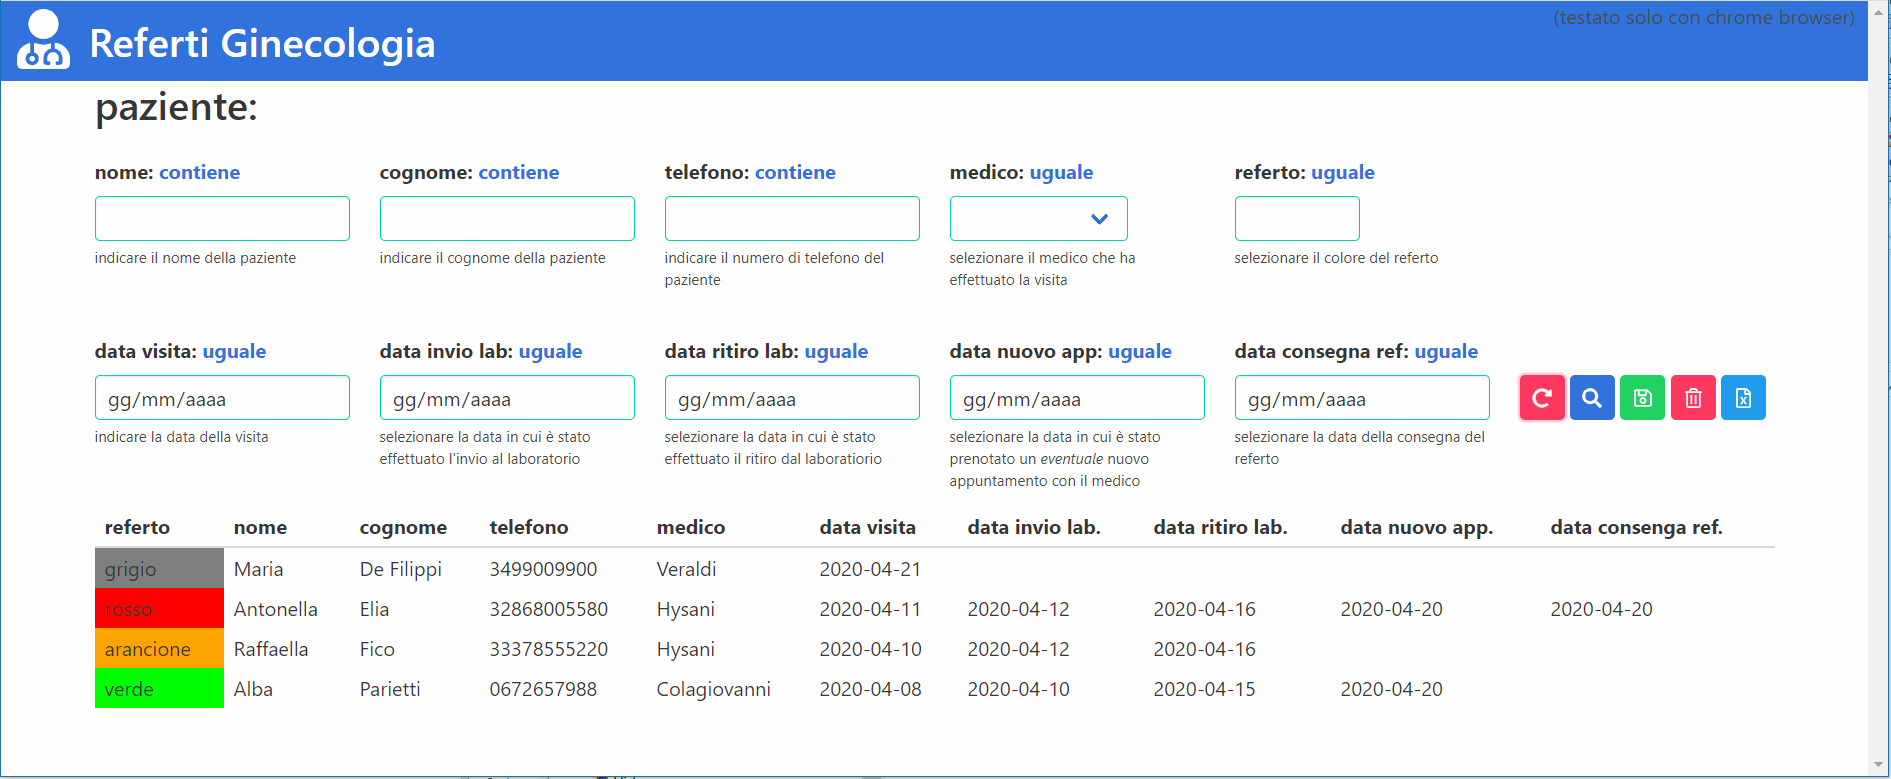
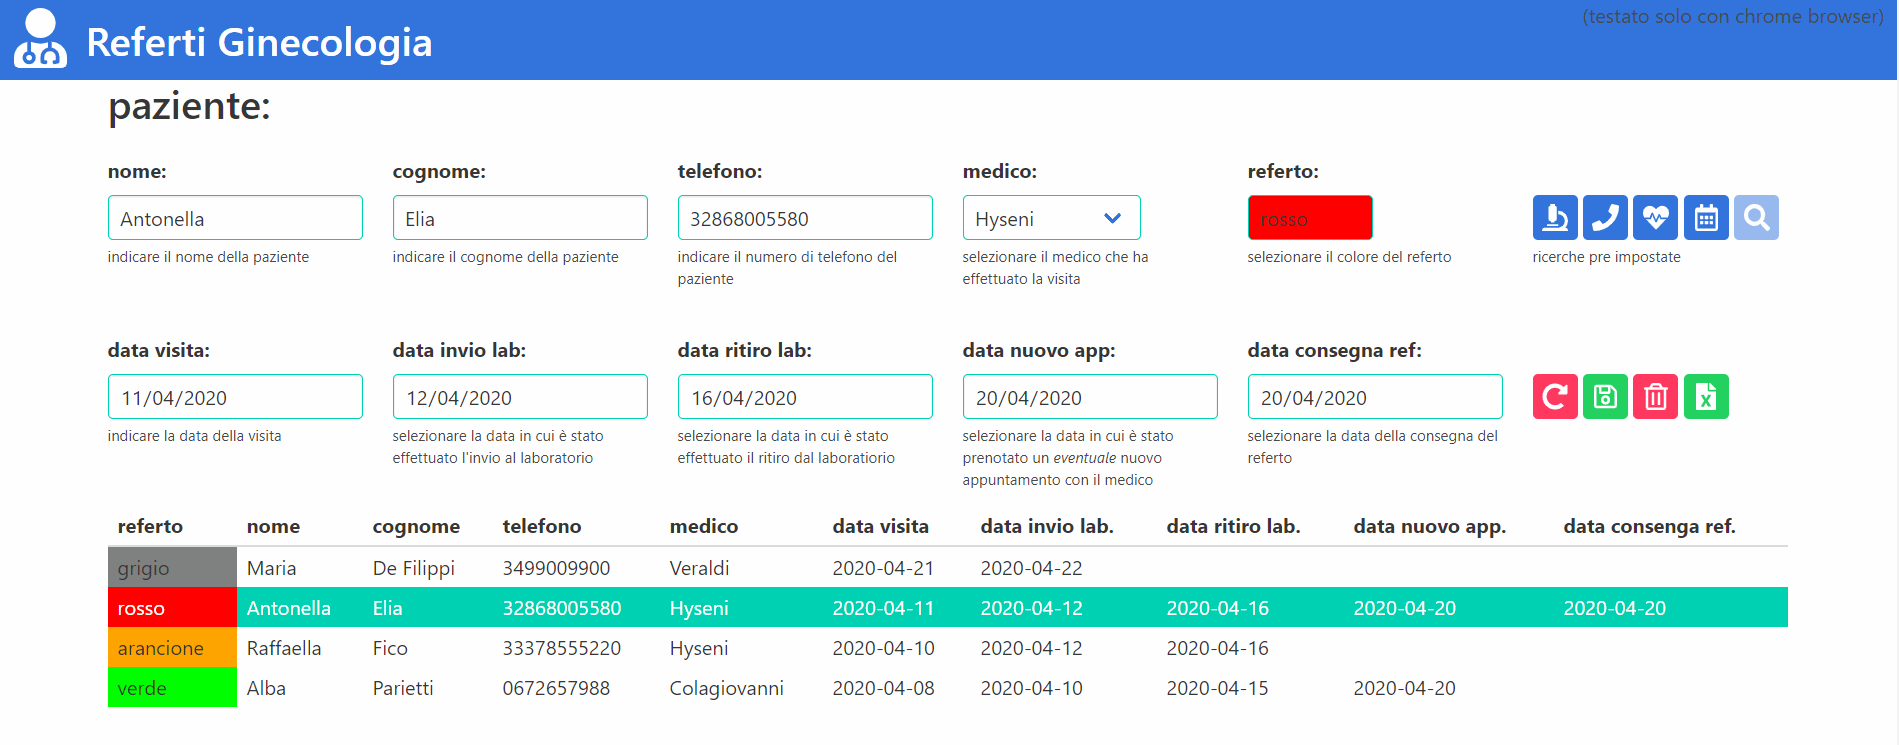
Add files via upload
add defined query

diff --git a/app.html b/app.html
@@ -21,6 +21,8 @@
 	
 	<script>
 	var dataCorrente = new Date();
+	var primoDelMese = new Date();
+	primoDelMese.setDate(1);
 	function adesso() {
 		return dataCorrente.toISOString().substr(0,19);
 	}
@@ -29,13 +31,16 @@
 	Number.prototype.toEuro = function(n, x) {
 		return this.toFixed(2).replace(/\./, ',').replace(regexEuro, '$&.');
 	};
+	Date.prototype.format = function() {
+		return this.toISOString().split('T')[0];
+	};
 	var refertoType = {grigio: 'grigio', verde: 'verde', arancione: 'arancione', rosso: 'rosso'}
 	
 	var pazienteType = {
 		id: null,
 		nome: null, cognome: null, telefono: null, medico: null,
 		tipoReferto: null,
-		dataVisita: null,  //dataCorrente.toISOString().split('T')[0],
+		dataVisita: null,  //dataCorrente.format(),
 		dataInvioLaboratorio: null,
 		dataRitiroLaboratorio: null,
 		dataNuovoAppuntamento: null,
@@ -49,9 +54,9 @@
 		//for (i=0; i<10; i=i+2) {
 			let p1 = {id:1,nome:'Alba',cognome:'Parietti',telefono:'0672657988',medico:'Colagiovanni',tipoReferto:'verde',
 					  dataVisita: '2020-04-08',	dataInvioLaboratorio: '2020-04-10', dataRitiroLaboratorio: '2020-04-15', dataNuovoAppuntamento: '2020-04-20', dataConsegna: null}
-			let p2 = {id:2,nome:'Raffaella',cognome:'Fico',telefono:'33378555220',medico:'Hysani',tipoReferto:'arancione',
+			let p2 = {id:2,nome:'Raffaella',cognome:'Fico',telefono:'33378555220',medico:'Hyseni',tipoReferto:'arancione',
 					  dataVisita: '2020-04-10',	dataInvioLaboratorio: '2020-04-12', dataRitiroLaboratorio: '2020-04-16', dataNuovoAppuntamento: null, dataConsegna: null}
-			let p3 = {id:3,nome:'Antonella',cognome:'Elia',telefono:'32868005580',medico:'Hysani',tipoReferto:'rosso',
+			let p3 = {id:3,nome:'Antonella',cognome:'Elia',telefono:'32868005580',medico:'Hyseni',tipoReferto:'rosso',
 					  dataVisita: '2020-04-11',	dataInvioLaboratorio: '2020-04-12', dataRitiroLaboratorio: '2020-04-16', dataNuovoAppuntamento: '2020-04-20', dataConsegna: '2020-04-20'}
 			let p4 = {id:4,nome:'Maria',cognome:'De Filippi',telefono:'3499009900',medico:'Veraldi',tipoReferto:'grigio',
 					  dataVisita: '2020-04-21',	dataInvioLaboratorio: null, dataRitiroLaboratorio: null, dataNuovoAppuntamento: null, dataConsegna: null}
@@ -139,8 +144,10 @@
 						<select class="input is-primary" v-model="paziente.medico" v-on:change="filtra">
 							<option>Veraldi</option>
 							<option>Colagiovanni</option>
-							<option>Hysani</option>
+							<option>Hyseni</option>
 							<option>Bellantone</option>
+							<option>Assorgi</option>
+							<option>Guri</option>
 						</select>
 					</p>
 					<p class="help">selezionare il medico che ha effettuato la visita</p>
@@ -150,7 +157,7 @@
 					<p class="control">
 						<select class="input is-primary" v-model="paziente.tipoReferto" style="width:100px" v-bind:class="paziente.tipoReferto" v-on:change="filtra">
 							<option></option>
-							<option class="grigio" value="grigio" selected></option>
+							<option class="grigio" value="grigio"></option>
 							<option class="verde" value="verde">verde</option>
 							<option class="arancione" value="arancione">arancione</option>
 							<option class="rosso" value="rosso">rosso</option>
@@ -159,6 +166,37 @@
 					<p class="help">selezionare il colore del referto</p>
 				</div>
 				<div class="column">
+					<p class="control" style="padding-top:32px">
+					<button class="button is-link" v-on:click="filtraReferti" title="tutti i referti ancora non ritornati dal laboratorio">
+						<span class="icon is-small">
+							<i class="fas fa-lg fa-microscope"></i>
+						</span>
+					</button>
+					<button class="button is-link" v-on:click="filtraAppuntamenti" title="tutti i pazienti da chiamare (rossi e arancioni)
+per concordare l'appuntamento con il medico">
+						<span class="icon is-small">
+							<i class="fas fa-lg fa-phone"></i>
+						</span>
+					</button>
+					<button class="button is-link" v-on:click="filtraAppuntamentiMancati" title="tutti i pazienti (rossi e arancioni) con appuntamento,
+ma che non hanno ritirato il referto,
+overo non si sono ancora presentati">
+						<span class="icon is-small">
+							<i class="fas fa-lg fa-heartbeat"></i>
+						</span>
+					</button>
+					<button class="button is-link" v-on:click="filtraUltimoMese" title="l'utimo mese">
+						<span class="icon is-small">
+							<i class="far fa-lg fa-calendar-alt"></i>
+						</span>
+					</button>
+					<button v-bind:disabled="paziente.id!=null" class="button is-link" v-on:click="filtra" title="ricerca libera con i dati e gli operatori presenti nei campi">
+						<span class="icon is-small">
+							<i class="fas fa-lg fa-search"></i>
+						</span>
+					</button>
+					</p>
+					<p class="help">ricerche pre impostate</p>
 				</div>
 			</div>
 			<div class="columns">
@@ -209,25 +247,20 @@
 				
 				<div class="column field">
 					<p class="control" style="padding-top:32px">
-					<button class="button is-danger" v-on:click="nuovo" title="pulisci campi">
+					<button class="button is-danger" v-on:click="nuovo" title="pulisci campi per nuovo inserimento o per ricerca">
 						<span class="icon is-small">
-						  <i class="fas fa-redo-alt"></i>
-						</span>
-					</button>
-					<button class="button is-link" v-on:click="filtra" title="filtra la tabella con i data presenti nei campi">
-						<span class="icon is-small">
-							<i class="fas fa-search"></i>
+						  <i class="fas fa-lg fa-redo-alt"></i>
 						</span>
 					</button>
 					<button class="button is-success" v-on:click="aggiorna" title="aggiorna">
 						<span class="icon is-small">
-							<i class="far fa-save"></i>
+							<i class="far fa-lg fa-save"></i>
 							<!-- i class="fas fa-plus-circle"></i-->
 						</span>
 					</button>
 					<button class="button is-danger" v-on:click="elimina" title="rimuovi il paziente selezionato">
 						<span class="icon is-small">
-							<i class="far fa-trash-alt"></i>
+							<i class="far fa-lg fa-trash-alt"></i>
 						</span>
 					</button>
 					<!--button class="button is-success" v-on:click="salva" title="salva sul computer">
@@ -235,9 +268,9 @@
 							<i class="far fa-hdd"></i>
 						</span>
 					</button-->
-					<button class="button is-info" v-on:click="toExcel" title="esporta tabella su excel">
+					<button class="button is-success" v-on:click="toExcel" title="esporta su excel">
 						<span class="icon is-small">
-							<i class="far fa-file-excel"></i>
+							<i class="fas fa-lg fa-file-excel"></i>
 						</span>
 					</button>
 					</p>
@@ -256,7 +289,7 @@
 				</tr>
 			</thead>
 			<tbody v-for="p in dbfiltrato">
-				<tr v-on:click="selezionaRiga(p.id)">
+				<tr v-bind:class="selezionaRiga(p.id)" v-on:click="selezionaPaziente(p.id)">
 					<td v-bind:class="p.tipoReferto">{{p.tipoReferto}}</td><td>{{p.nome}}</td><td>{{p.cognome}}</td><td>{{p.telefono}}</td><td>{{p.medico}}</td>
 					<td>{{p.dataVisita}}</td><td>{{p.dataInvioLaboratorio}}</td><td>{{p.dataRitiroLaboratorio}}</td><td>{{p.dataNuovoAppuntamento}}</td><td>{{p.dataConsegna}}</td>
 				</tr>
@@ -285,11 +318,6 @@
 			},
 			computed : {
 				dbfiltrato : function() {
-					/*for (let key in this.filtro) {
-						if (key=="nome" || key=="cognome") {
-							this.filtro[key]={likenocase:this.filtro[key]};
-						}
-					}*/
 					return this.db().filter(this.filtro).order("id desc").get();
 				},
 				hasOperatore: function() {
@@ -300,12 +328,12 @@
 				aggiorna : function() {
 					if (this.paziente.id==null) {
 						this.paziente.id=this.db().max("id")+1;
-						//this.db.insert(this.paziente);
-					//} else {
-						//this.db({id:this.paziente.id}).update(this.paziente)
-						this.filtro = {dataVisita: dataCorrente.toISOString().split('T')[0]};
+						if (this.paziente.tipoReferto==null)
+							this.paziente.tipoReferto='grigio';
+						if (this.paziente.dataVisita==null)
+							this.paziente.dataVisita=dataCorrente.format();
+						this.filtro={dataVisita:dataCorrente.format()}
 					} else {
-						//this.filtro = {id:this.paziente.id};
 						filtroPrecedente = this.filtro;
 						this.filtro = {id:-1}
 						this.filtro = filtroPrecedente;
@@ -323,8 +351,6 @@
 				},
 				nuovo : function() {
 					this.paziente =  Object.assign({}, pazienteType);
-					this.paziente.tipoReferto=null;
-					this.paziente.dataVisita=null;
 					this.filtro = {};
 				},
 				cambiaOperatore : function(op) {
@@ -339,32 +365,56 @@
 						let f = {};
 						for (let key in this.filtro) {
 						   if (this.filtro.hasOwnProperty(key)) {
-						      console.log(key, this.filtro[key]);
+						      //console.log(key, this.filtro[key]);
 						      let oper = this.operatoreTipo[this.operatore[key]];
 						      if (oper) {
 						    	  //opk = Object.keys(oper)[0];
 						    	  opv = Object.values(oper)[0];
 						    	  let filtro = new Object();
-						    	  if (opv=='isNull')
-						    		  filtro[opv] = true;
-						    	  else
-						    		  filtro[opv] = this.filtro[key];
+						    	  filtro[opv] = this.filtro[key];
 						    	  f[key] = filtro;
 						      } else {
 						    	  f[key] = this.filtro[key];
 						      }
 						   }
 						}
+						for (let key in this.operatore) {
+							console.log(key, this.operatore[key]);
+							if (this.operatore[key]==4){
+								f[key] = {isNull:true}
+							}
+						}
 						console.log(f);
 						this.filtro = f;
 					}
 				},
+				filtraUltimoMese : function() {
+					this.paziente = Object.assign({}, pazienteType);
+					this.paziente.dataVisita=primoDelMese.format();
+					this.operatore.dataVisita=2;
+					this.filtra();
+				},
+				filtraReferti : function() {
+					this.paziente = Object.assign({}, pazienteType);
+					this.filtro={dataInvioLaboratorio:{"!is":null},dataRitiroLaboratorio:{isNull:true}}
+				},
+				filtraAppuntamenti : function() {
+					this.paziente = Object.assign({}, pazienteType);
+					this.filtro={tipoReferto:["arancione","rosso"], dataRitiroLaboratorio:{"!is":null}, dataNuovoAppuntamento:{isNull:true}}
+				},
+				filtraAppuntamentiMancati : function() {
+					this.paziente = Object.assign({}, pazienteType);
+					this.filtro={tipoReferto:["arancione","rosso"], dataNuovoAppuntamento:{"!is":null}, dataConsegna:{isNull:true}}
+				},
 				salva : function() {
 					//this.db.store("pazientidb");
-					localStorage.setItem( 'taffy_pazientidb', JSON.stringify( this.db().get() ) );
+					localStorage.setItem( "taffy_pazientidb", JSON.stringify( this.db().get() ) );
+				},
+				selezionaPaziente : function(idx) {
+					this.paziente= Object.assign({}, this.db({id:idx}).get()[0]);
 				},
 				selezionaRiga : function(idx) {
-					this.paziente= Object.assign({}, this.db({id:idx}).get()[0]);
+					return (this.paziente.id==idx)?'is-selected':'';
 				},
 				toExcel : function() {
 					let wb = XLSX.utils.book_new();
@@ -381,6 +431,7 @@
 						dati.push([r.nome, r.cognome, r.telefono, r.medico, r.dataVisita, r.dataInvioLavoratorio, r.dataRitiroLaboratorio, r.dataNuovoAppuntamento, r.dataConsegna]);
 					}
 					let ws = XLSX.utils.aoa_to_sheet(dati);
+					ws['!autofilter'] = { ref: "A1:I"+dati.length };
 					wb.Sheets["Pazienti"] = ws;
 					let wbout = XLSX.write(wb, {bookType:'xlsx',  type: 'binary'});
 					saveAs(new Blob([s2ab(wbout)],{type:"application/octet-stream"}), 'pazienti-ginecologia-'+adesso()+'.xlsx');
